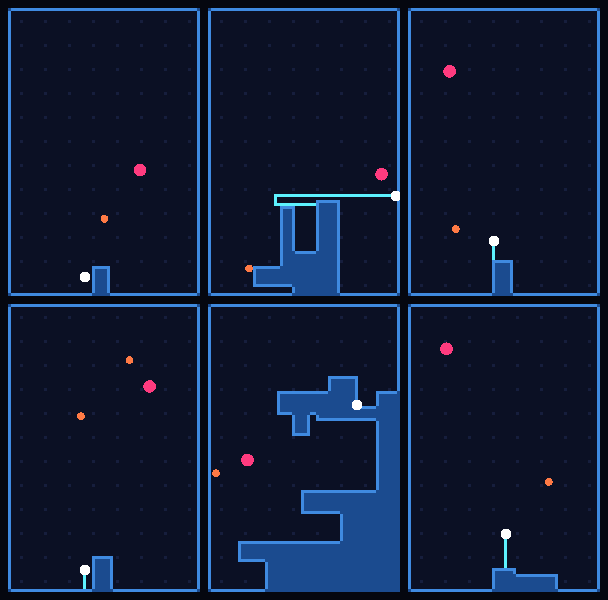
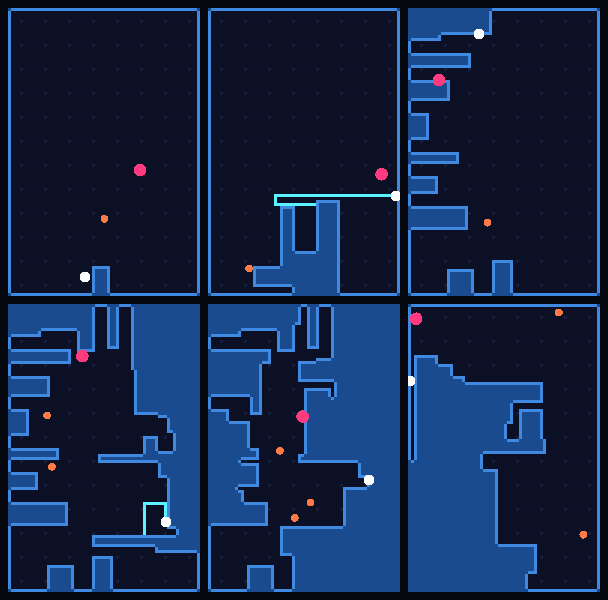
İzde geri sarma: geçilen hücreler silinsin
İz çizerken geldiğin yöne dönmek artık ölüm değil, geri sarma: geminin üstünde
durduğu hücre boşa döner ve gemi bir geri çekilir. İz tükenirse çizim iptal
olur — kapatma yok, alan kazanılmaz, gemi başladığı kenar hücresinde kalır.
İzin başka bir noktasına girmek hâlâ ölümcül.

- stepPlayer, hedefin "arkadaki hücre" olup olmadığına bakıyor (iz dizisinden
  türetiliyor; tek hücrelikken başlangıç noktası). Eski previousCell alanı ve
  "geri dönüş engellenir" kuralı kalktı.
- tools/preview.ts botu dalış tuşunu basılı tutacak şekilde güncellendi.

Yan etki ölçüldü: bot artık kendi izine sıkışıp ölmediği için 1. seviyeyi
bitirebiliyor (%98.7, 93.160 puan) — önceki koşularda hiç bitiremiyordu.

Doğrulama: 43 test (yeni 4 test: bir hücre geri sarma, çaprazda geri sarma,
tamamen geri sarınca çizim iptali, geri sardıktan sonra yeniden ilerleme).
typecheck ve lint temiz; tarayıcıda denendi: iz kısaldı, can gitmedi.

Claude-Session: https://claude.ai/code/session_01DRAZrbunHqZa1CoRwy9SQG

diff --git a/src/engine/game.ts b/src/engine/game.ts
@@ -59,7 +59,6 @@ export class Game {
   private spawnTimer = 0;
   private nextEnemyId = 1;
   private trailStart: Vec = { x: 0, y: 0 };
-  private previousCell: Vec | null = null;
   /** Bu karede dalış tuşu basılı mı (movePlayer içinde girdiden okunur). */
   private wantsDive = false;
   private events: GameEvent[] = [];
@@ -92,7 +91,6 @@ export class Game {
     this.level = level;
     this.field.reset();
     this.trail = [];
-    this.previousCell = null;
     this.stepAccumulator = 0;
     this.invulnerable = RESPAWN_INVULN;
     this.freeze = 0;
@@ -208,15 +206,19 @@ export class Game {
       if (this.diagonalCorner(dx, dy) !== 'ok') return;
       this.trailStart = { x: player.x, y: player.y };
       player.drawing = true;
-      this.previousCell = { x: player.x, y: player.y };
       this.events.push({ type: 'trail-start' });
       this.advanceTrail(tx, ty);
       return;
     }
 
+    // Arkandaki hücreye dönmek izi geri sarar: üstünde durduğun hücre silinir.
+    const behind = this.cellBehind();
+    if (behind.x === tx && behind.y === ty) {
+      this.retrace(tx, ty);
+      return;
+    }
+
     if (target === TRAIL) {
-      // Geri dönüş sayılan tek hücre engellenir; dokunmatikte kazara ölüm olmasın.
-      if (this.previousCell && this.previousCell.x === tx && this.previousCell.y === ty) return;
       this.die('self');
       return;
     }
@@ -245,11 +247,32 @@ export class Game {
    */
   private advanceTrail(tx: number, ty: number): void {
     const { field, player } = this;
-    this.previousCell = { x: player.x, y: player.y };
     player.x = tx;
     player.y = ty;
     field.set(tx, ty, TRAIL);
     this.trail.push({ x: tx, y: ty });
+  }
+
+  /** İz üzerinde geminin bir gerisindeki hücre; iz tek hücreyse başlangıç noktası. */
+  private cellBehind(): Vec {
+    return this.trail.length >= 2 ? this.trail[this.trail.length - 2] : this.trailStart;
+  }
+
+  /**
+   * İzi bir hücre geri sarar: geminin üstünde durduğu hücre boşa döner ve gemi
+   * arkadaki hücreye çekilir. İz tükenirse çizim iptal olur — kapatma yok.
+   */
+  private retrace(tx: number, ty: number): void {
+    const { field, player } = this;
+    const leaving = this.trail.pop();
+    if (leaving) field.set(leaving.x, leaving.y, EMPTY);
+
+    player.x = tx;
+    player.y = ty;
+
+    if (this.trail.length === 0) {
+      player.drawing = false;
+    }
   }
 
   /**
@@ -278,7 +301,6 @@ export class Game {
     }
 
     this.trail = [];
-    this.previousCell = null;
     this.player.drawing = false;
     // Kapatılan bölge gemiyi içeride bıraktıysa en yakın kenara çek.
     this.moveToNearestEdge();
@@ -431,7 +453,6 @@ export class Game {
   private die(cause: DeathCause): void {
     clearTrail(this.field, this.trail);
     this.trail = [];
-    this.previousCell = null;
     this.player.drawing = false;
     this.stepAccumulator = 0;
     this.lives -= 1;

diff --git a/src/engine/__tests__/game.test.ts b/src/engine/__tests__/game.test.ts
@@ -227,16 +227,62 @@ test('kendi izine girmek canı götürür', () => {
   assert.equal(game.field.get(8, 12), EMPTY);
 });
 
-test('bir hücre geri dönmek öldürmez, sadece engellenir', () => {
+test('izde geri gitmek geçilen hücreyi siler', () => {
   const game = setupGame();
-  stepMany(game, { dx: 0, dy: -1 }, 3);
-  const before = { ...game.player };
+  stepMany(game, { dx: 0, dy: -1 }, 3); // (8,14) (8,13) (8,12)
 
   const events = stepOnce(game, { dx: 0, dy: 1 });
 
   assert.equal(eventsOfType(events, 'death').length, 0);
-  assert.equal(game.player.x, before.x);
-  assert.equal(game.player.y, before.y);
+  assert.equal(game.player.x, 8);
+  assert.equal(game.player.y, 13, 'gemi bir hücre geri gelmeli');
+  assert.equal(game.field.get(8, 12), EMPTY, 'geçilen hücre silinmeli');
+  assert.deepEqual(game.trail, [
+    { x: 8, y: 14 },
+    { x: 8, y: 13 },
+  ]);
+  assert.equal(game.player.drawing, true);
+});
+
+test('çaprazda da geri sarılır', () => {
+  const game = setupGame();
+  stepMany(game, { dx: -1, dy: -1 }, 3); // (7,14) (6,13) (5,12)
+
+  stepOnce(game, { dx: 1, dy: 1 });
+
+  assert.equal(game.player.x, 6);
+  assert.equal(game.player.y, 13);
+  assert.equal(game.field.get(5, 12), EMPTY);
+  assert.equal(game.trail.length, 2);
+});
+
+test('izi tamamen geri sarmak çizimi iptal eder', () => {
+  const game = setupGame();
+  stepMany(game, { dx: 0, dy: -1 }, 2); // (8,14) (8,13)
+
+  const events = stepMany(game, { dx: 0, dy: 1 }, 2);
+
+  assert.equal(game.player.drawing, false);
+  assert.equal(game.trail.length, 0);
+  assert.equal(game.player.x, 8);
+  assert.equal(game.player.y, 15, 'başladığı kenar hücresine dönmeli');
+  assert.equal(game.field.get(8, 14), EMPTY);
+  assert.equal(game.percent, 0, 'geri sarınca alan kazanılmaz');
+  assert.equal(eventsOfType(events, 'capture').length, 0);
+  assert.equal(eventsOfType(events, 'death').length, 0);
+});
+
+test('geri sardıktan sonra yeniden ilerlenebilir', () => {
+  const game = setupGame();
+  stepMany(game, { dx: 0, dy: -1 }, 3);
+  stepMany(game, { dx: 0, dy: 1 }, 2); // iki hücre geri sar
+
+  stepMany(game, { dx: -1, dy: 0 }, 2); // başka yöne devam
+
+  assert.equal(game.player.drawing, true);
+  assert.equal(game.player.x, 6);
+  assert.equal(game.player.y, 14);
+  assert.equal(game.trail.length, 3);
 });
 
 test('düşman ize değerse oyuncu ölür', () => {

diff --git a/tools/preview.ts b/tools/preview.ts
@@ -288,7 +288,8 @@ function main() {
   let pending = [...SNAPSHOT_TIMES];
 
   while (pending.length > 0 && time < 240) {
-    const events = game.update(dt, bot(game));
+    // Bot dalış tuşunu basılı tutuyor; tuşun kendisi motor testlerinde sınanıyor.
+    const events = game.update(dt, { ...bot(game), dive: true });
     for (const event of events) {
       if (event.type === 'level-clear') {
         console.log(`  seviye ${event.level} tamamlandı: %${event.percent.toFixed(1)}, bonus ${event.bonus}`);

diff --git a/README.md b/README.md
@@ -20,10 +20,15 @@ geri kalanı bir hamlede senin olur. Sıradan düşmanlar kapattığın bölgede
 | Güvenli bölge | Kenarda dururken düşmanlar sana değemez |
 | Dalış | Kenardan boş alana yalnızca **ÇİZ** tuşu basılıyken çıkılır |
 | Risk | Boş alana girdiğin anda iz bırakmaya başlarsın ve açıktasın |
-| Ölüm | Düşman izine veya sana değerse, ya da kendi izine girersen |
+| Geri sarma | İzde geldiğin yönde geri gidersen geçtiğin hücreler silinir; başa dönersen çizim iptal olur |
+| Ölüm | Düşman izine veya sana değerse, ya da kendi izinin **başka** bir yerine girersen |
 | Patron (pembe) | Bulunduğu bölge ele geçirilemez, her yerde tehlikelidir |
 | Gezgin (turuncu) | Rastgele seker; kapatılan bölgede kalırsa yok olur ve puan verir |
 | Avcı (sarı) | 4. seviyeden sonra çıkar, seni takip eder |
+
+İzin ucunda takılırsan geri sarabilirsin: geldiğin yöne dönmek izi hücre hücre
+siler, tamamen geri sararsan hiç alan kaybetmeden kenara dönersin. Yalnızca izin
+*başka* bir noktasına girmek ölümcüldür.
 
 **Kontrol:** ekrana parmağını koy — dokunduğun nokta joystick merkezi olur, 8 yöne
 hareket edebilirsin; parmağını kaldırınca gemi durur. Boş alana dalmak için sağdaki
